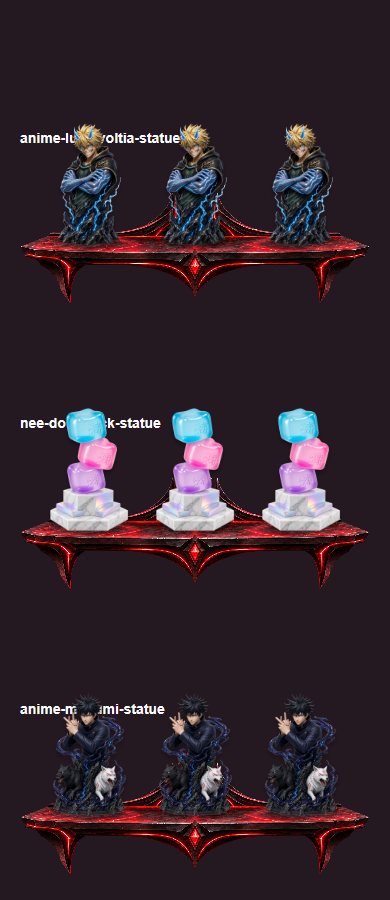
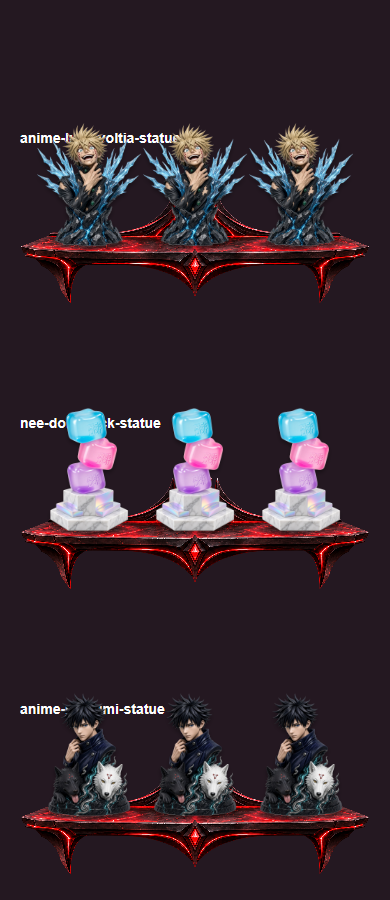
Replace Megumi and Luck Voltia shelf artwork

diff --git a/collectible-shelf.js b/collectible-shelf.js
@@ -138,9 +138,9 @@
   const clean = value => valid(value) ? { enabled: value.enabled, slots: value.slots.map(id => replacements[id] || id), theme:value.theme || 'crimson' } : { enabled: true, slots: ['horse', 'crystal', 'planet'], theme:'crimson' };
   const name = id => items.find(item => item.id === id)?.name || 'Empty spot';
   const standalone = {
-    'anime-luck-voltia-statue': {"source":"assets/shelf-anime-luck-voltia-statue.png","width":1264,"height":1568,"bounds":[258,22,788,1516],"displaySize":330,"displayWidth":280},
+    'anime-luck-voltia-statue': {"source":"assets/shelf-anime-luck-voltia-statue-v2.png","width":1376,"height":1440,"bounds":[122,0,1201,1411],"displaySize":330,"displayWidth":280},
     'nee-doh-stack-statue': {"source":"assets/shelf-nee-doh-stack-statue.png","width":1408,"height":1408,"bounds":[317,40,817,1288],"displaySize":330,"displayWidth":280},
-    'anime-megumi-statue': {"source":"assets/shelf-anime-megumi-statue.png","width":1152,"height":1728,"bounds":[107,32,976,1625],"displaySize":330,"displayWidth":280},
+    'anime-megumi-statue': {"source":"assets/shelf-anime-megumi-statue-v2.png","width":1408,"height":1408,"bounds":[253,1,926,1377],"displaySize":330,"displayWidth":280},
     'anime-ichigo-statue': {"source":"assets/shelf-anime-ichigo-statue.png","width":1104,"height":1776,"bounds":[1,132,1103,1552],"displaySize":330,"displayWidth":280},
     'music-pop-singer-statue': {"source":"assets/shelf-music-pop-singer-statue.png","width":1680,"height":1184,"bounds":[300,10,949,1153],"displaySize":330,"displayWidth":280},
     'disney-lilo-stitch-statue': {"source":"assets/shelf-disney-lilo-stitch-statue.png","width":1504,"height":1312,"bounds":[130,46,1247,1230],"displaySize":330,"displayWidth":280},

diff --git a/work/measure-anime-replacements.js b/work/measure-anime-replacements.js
@@ -1,0 +1,1 @@
+const sharp=require('sharp'); (async()=>{for(const id of ["anime-luck-voltia-statue","anime-megumi-statue"]){const source='assets/shelf-'+id+'-v2.png';const {data,info}=await sharp(source).ensureAlpha().raw().toBuffer({resolveWithObject:true});let l=info.width,t=info.height,r=0,b=0;for(let y=0;y<info.height;y++)for(let x=0;x<info.width;x++){const i=(y*info.width+x)*4;if(data[i+3]>32&&Math.min(data[i],data[i+1],data[i+2])<220){l=Math.min(l,x);t=Math.min(t,y);r=Math.max(r,x);b=Math.max(b,y);}}l=Math.max(0,l-5);t=Math.max(0,t-5);r=Math.min(info.width-1,r+5);b=Math.min(info.height-1,b+5);console.log(JSON.stringify({id,source,width:info.width,height:info.height,bounds:[l,t,r-l+1,b-t+1],displaySize:330,displayWidth:280}));}})();

diff --git a/index.html b/index.html
@@ -25,7 +25,7 @@
 
   <script src="launchpad-scenes.js?v=20261001-jdm-v46"></script>
   <script src="profile-banners.js?v=20260928-more-sets-v10"></script>
-<script src="collectible-shelf.js?v=20261002-luck-megumi-nee-doh-v77"></script>
+<script src="collectible-shelf.js?v=20261002-luck-megumi-replacements-v78"></script>
   <script src="app.js?v=20261001-dual-shelves-v97"></script>
   <script src="colt-assistant.js?v=20260905-lazy-artwork-v2"></script>
   <script src="colt-radio.js?v=20261002-radiofa-katseye-v28"></script>
